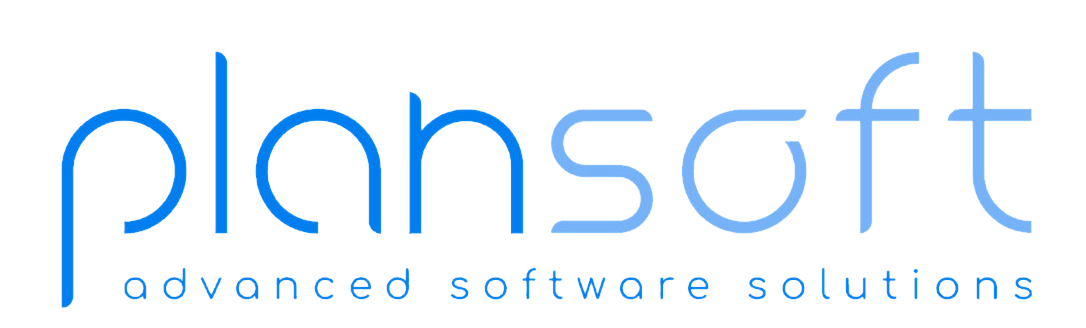
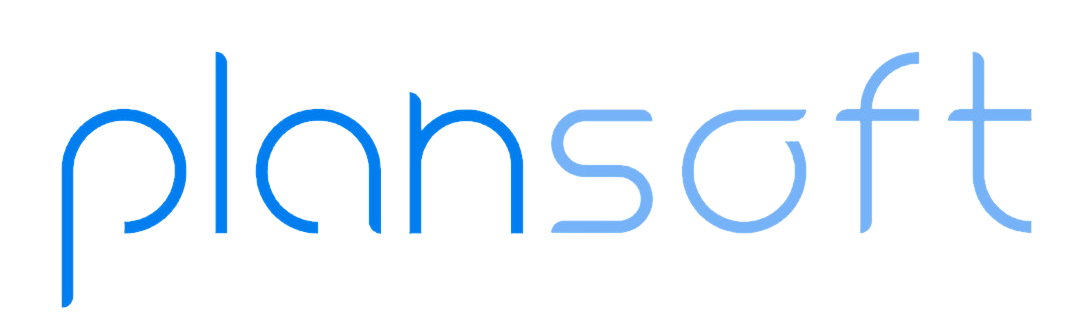
authentication

Changed region(s): [[0.0912, 0.8232, 0.9724, 0.9146]]

diff --git a/src/app/core/services/AuthenticationService.ts b/src/app/core/services/AuthenticationService.ts
@@ -1,35 +1,18 @@
 import { Injectable } from '@angular/core';
 import { HttpClient } from '@angular/common/http';
-import { BehaviorSubject, Observable, of, Subject } from 'rxjs';
 import { catchError, map } from 'rxjs/operators';
 import { environment } from 'src/environments/environment';
+import { UserService } from './utils/user.service';
 import { User } from 'src/app/pages/account/models/User';
+import { JwtResponse } from 'src/app/shared/domain/auth/jwt-response';
+import { Router } from '@angular/router';
 
 @Injectable({ providedIn: 'root' })
 export class AuthenticationService {
 
-    private currentUserSubject?: Subject<User>;
-    public currentUser?: Observable<User>;
     apiUrl = environment.apiUrl;
 
-    constructor(private http: HttpClient) {
-        let user = localStorage.getItem('currentUser');
-        if (user != undefined) {
-            this.currentUserSubject = new BehaviorSubject<User>(JSON.parse(user));
-            this.currentUser = this.currentUserSubject.asObservable();
-        }
-    }
-
-    public getCurrentUserAsObservable(): Observable<User> {
-        if (this.currentUserSubject)
-            return this.currentUserSubject;
-        else {
-            //let user = localStorage.getItem('currentUser');
-            this.currentUserSubject = new Subject<User>();
-            this.currentUser = this.currentUserSubject.asObservable();
-            return this.currentUserSubject;
-        }
-    }
+    constructor(private http: HttpClient, private userService: UserService, private route: Router) { }
 
     login(username: string, password: string) {
         let body = { 
@@ -39,18 +22,20 @@ export class AuthenticationService {
         return this.http.post<any>("public/authenticate", body)
             .pipe(
                 map(
-                    resp => {
-                        console.log("RESP ",resp)
+                    (resp: JwtResponse) => {
                         // login successful if there's a jwt token in the response
                         if (resp && resp.token) {
                             // store user details and jwt token in local storage to keep user logged in between page refreshes
                             localStorage.setItem('currentUser', JSON.stringify(resp));
-                            this.currentUserSubject?.next(resp);
+                            const user = {} as User;
+                            user.username = resp.username;
+                            user.token = resp.token;
+                            this.userService.getUserSubject().next(user);
                         }
                         return resp;
                     },
                     catchError(err => {
-                        console.log("ERR ",err)
+                        console.log("Authentication error ",err)
                         return err;
                 })
             )
@@ -70,6 +55,8 @@ export class AuthenticationService {
 
     logout() {
         // remove user from local storage to log user out
+        console.log("Log out user")
         localStorage.removeItem('currentUser');
+        this.route.navigate(['../login']);
     }
 }

diff --git a/src/app/core/services/utils/user.service.ts b/src/app/core/services/utils/user.service.ts
@@ -1,31 +1,53 @@
 import { Injectable } from '@angular/core';
+import { BehaviorSubject, Observable, Subject } from 'rxjs';
 import { User } from 'src/app/pages/account/models/User';
+import { JwtResponse } from 'src/app/shared/domain/auth/jwt-response';
 
 @Injectable()
 export class UserService {
 
-    constructor() { }
+    private currentUserSubject?: Subject<User>;
+    public currentUser?: Observable<User>;
+
+    constructor() { 
+        let user = localStorage.getItem('currentUser');
+        if (user != undefined) {
+            this.currentUserSubject = new BehaviorSubject<User>(JSON.parse(user));
+            this.currentUser = this.currentUserSubject.asObservable();
+        }
+    }
+
+    public getCurrentUserAsObservable(): Observable<User> {
+        if (this.currentUserSubject)
+            return this.currentUserSubject;
+        else {
+            this.currentUserSubject = new Subject<User>();
+            this.currentUser = this.currentUserSubject.asObservable();
+            return this.currentUserSubject;
+        }
+    }
+
+    public getUserSubject(): Subject<User> {
+        return this.currentUserSubject;
+    }
 
     public saveUserDataInLocalStorage(user: User) {
-        localStorage.setItem('user-first-name', user.firstName);
-        localStorage.setItem('user-last-name', user.lastName);
-        localStorage.setItem('user-id', String(user.userId));
+        localStorage.setItem('currentUser', JSON.stringify(user));
         return true;
     }
 
     public getUser(): User {
-        const user = {} as User;
-        user.firstName = localStorage.getItem('user-first-name');
-        user.lastName = localStorage.getItem('user-last-name');
-        user.userId = Number(localStorage.getItem('user-id'));
+        let user = {} as User;
+        user = JSON.parse(localStorage.getItem('currentUser'));
         return user;
     }
 
     public getFullName(): string {
-        const first: string = localStorage.getItem('user-first-name');
-        const last: string = localStorage.getItem('user-last-name');
-        if (first || last) {
-            return `${first} ${last}`
+        let user = {} as User;
+        user = JSON.parse(localStorage.getItem('currentUser'));
+
+        if (user.firstName || user.lastName) {
+            return `${user.firstName} ${user.lastName}`
         }
         return null;
     }
@@ -34,12 +56,5 @@ export class UserService {
         return localStorage.getItem('user-id');
     }
 
-    public getCompanyName(): string {
-        return localStorage.getItem('company-name');
-    }
-
-    public getBusinessName(): string {
-        return localStorage.getItem('business-name');
-    }
 
 }

diff --git a/src/app/shared/components/logged-user/logged-user.component.ts b/src/app/shared/components/logged-user/logged-user.component.ts
@@ -1,7 +1,7 @@
 import { Component, OnInit, OnDestroy } from '@angular/core';
 import { Subscription } from 'rxjs';
+import { AuthenticationService } from 'src/app/core/services/AuthenticationService';
 import { UserService } from 'src/app/core/services/utils/user.service';
-import { UtilService } from 'src/app/core/services/utils/util.service';
 import { User } from 'src/app/pages/account/models/User';
 
 @Component({
@@ -12,15 +12,20 @@ import { User } from 'src/app/pages/account/models/User';
 export class LoggedUserComponent implements OnInit, OnDestroy {
 
   public dropdownVisible = false;
-
   public user: User;
 
   private userLoggedSubscription: Subscription;
 
-  constructor(private userService: UserService, private utilService: UtilService) { }
+  constructor(private userService: UserService, private authService: AuthenticationService) { }
 
   ngOnInit(): void {
-    this.user = this.userService.getUser();
+    this.userLoggedSubscription = this.userService.getCurrentUserAsObservable().subscribe(
+      (user: User) => {
+          this.user = user;
+      },
+      (err: any) => {
+        console.log("Error access to user ",err)
+      });
   }
 
   public clickOutsideHandler() {
@@ -32,7 +37,7 @@ export class LoggedUserComponent implements OnInit, OnDestroy {
   }
 
   public logout(event: any) {
-    this.utilService.logout();
+    this.authService.logout();
   }
 
   ngOnDestroy(): void {

diff --git a/src/app/shared/components/logged-user/logged-user.component.html b/src/app/shared/components/logged-user/logged-user.component.html
@@ -10,14 +10,13 @@
                     <div class="dropdown-header-inner">{{ 'label.user' | translate }}</div>
                 </div>
                 <div class="user-info-box">
-                    <div class="identification-number app-dropdown-item">
-                        <div ><i class="fa fa-key mr1"></i></div>
-                        <div >{{ user.userId }}</div>
-                    </div>
                     <div class="name app-dropdown-item">
                         <div ><i class="fa fa-user mr1"></i></div>
-                        <div class="first">{{ user.firstName }}</div>
-                        <div class="last">{{ user.lastName }}</div>
+                        <div class="first">&ensp;{{ user.username }}</div>
+                    </div>
+                    <div class="identification-number app-dropdown-item">
+                        <div ><i class="fa fa-key mr1"></i></div>
+                        <div >&ensp;{{ user.token | slice:0:6 }}...</div>
                     </div>
                     <div class="society app-dropdown-item">
                         <div ><i class="fa fa-company mr1"></i></div>

diff --git a/src/app/pages/account/login/login.component.ts b/src/app/pages/account/login/login.component.ts
@@ -3,7 +3,6 @@ import { Router } from '@angular/router';
 import { TranslateService } from '@ngx-translate/core';
 import { AuthenticationService } from 'src/app/core/services/AuthenticationService';
 import { DialogService } from 'src/app/core/services/DialogService';
-import { LanguageService } from 'src/app/core/services/general-config/language.service';
 import { SpinnerService } from 'src/app/core/services/SpinnerService';
 import { JwtResponse } from 'src/app/shared/domain/auth/jwt-response';
 
@@ -35,7 +34,7 @@ export class LoginComponent implements OnInit {
           this.dialogService.showTimedAlert(this.translateService.instant('message.success.loginSucceeded'), 500);
         }, 0);
         console.log("Login succeeded "+JSON.stringify(resp));
-        this.router.navigate(['./home']);
+        this.router.navigate(['./skills/home']);
       },
       (err: JwtResponse) => {
         this.spinnerService.stop();

diff --git a/src/app/app.routing.module..ts b/src/app/app.routing.module..ts
@@ -3,14 +3,24 @@ import { NgModule } from '@angular/core';
 import { BaseComponent } from './pages/base/base.component';
 import { WelcomeComponent } from './pages/account/welcome/welcome.component';
 import { HomeComponent } from './pages/home/home.component';
+import { LoginComponent } from './pages/account/login/login.component';
 
 const routes: Routes = [
     {
         path: '',
         component: WelcomeComponent,
+        children: [
+            {
+                path: '',
+                children: [
+                    { path: '', redirectTo: 'login', pathMatch: 'full' },
+                    { path: 'login', component: LoginComponent }
+                ]
+            }
+        ]
     },
     {
-        path: '',
+        path: 'skills',
         component: BaseComponent,
         children: [
             {

diff --git a/src/app/core/services/utils/left-menu.service.ts b/src/app/core/services/utils/left-menu.service.ts
@@ -1,7 +1,6 @@
 import { Injectable } from '@angular/core';
 import { Subject, Observable } from 'rxjs';
 import { HttpClient } from '@angular/common/http';
-import { EnvironmentService } from '../general-config/environment.service';
 import { LeftMenuLink } from 'src/app/shared/domain/components/left-menu-link';
 import { Lang } from 'src/app/shared/domain/enums/lang';
 
@@ -14,7 +13,7 @@ export class LeftMenuService {
 
     private _navigableMenuItemClickSubject$: Subject<LeftMenuLink> = new Subject<LeftMenuLink>();
 
-    constructor(private environmentService: EnvironmentService, private httpClient: HttpClient) { }
+    constructor(private httpClient: HttpClient) { }
     
     get menuItemClickSubjectAsObservable(): Observable<LeftMenuLink> {
         return this._menuItemClickSubject$.asObservable();

diff --git a/src/app/pages/account/login/login.component.html b/src/app/pages/account/login/login.component.html
@@ -2,12 +2,12 @@
     <div class="row">
         <div class="col-12">
             <mat-form-field class="login-field">
-                <input matInput placeholder="Username" [(ngModel)]="username" name="username">
+                <input matInput placeholder="Username" [(ngModel)]="username" name="username" (keyup.enter)="login()">
             </mat-form-field>
         </div>
         <div class="col-12">
             <mat-form-field class="login-field">
-                <input type="password" matInput placeholder="Password" [(ngModel)]="password" name="password">
+                <input type="password" matInput placeholder="Password" [(ngModel)]="password" name="password" (keyup.enter)="login()">
             </mat-form-field>
         </div>
     </div>

diff --git a/src/app/core/services/general-config/language.service.ts b/src/app/core/services/general-config/language.service.ts
@@ -1,5 +1,5 @@
 import { Injectable } from '@angular/core';
-import { Observable } from 'rxjs';
+import { BehaviorSubject, Observable } from 'rxjs';
 import { Lang } from 'src/app/shared/domain/enums/lang';
 import { TranslateService } from '@ngx-translate/core';
 import { DateAdapter } from '@angular/material/core';
@@ -10,7 +10,7 @@ import { Subject } from 'rxjs';
 })
 export class LanguageService {
 
-    private languageChangeSubject$: Subject<any> = new Subject<any>();
+    private languageChangeSubject$: BehaviorSubject<any> = new BehaviorSubject<any>(Lang.EN);
 
     constructor(private translate: TranslateService, private dateAdapter: DateAdapter<any>) { }
 

diff --git a/src/app/shared/components/sidebar/sidebar.component.scss b/src/app/shared/components/sidebar/sidebar.component.scss
@@ -7,9 +7,8 @@
         padding: 16px 0 14px;
         border-bottom: 1px solid #dedede;
         color: #81878c;
-        height: 80px;
-
-        background-image: url('../../../../assets/imgs/wall.jpeg');
+        height: 70px;
+        background-image: url('../../../../assets/imgs/home-bg.jpg');
         background-size: cover;
         justify-content: center;
         display: block;
@@ -22,7 +21,7 @@
             border: 1px solid;
             border-radius: 16px;
             color: white;
-            font-size: 22px;
+            font-size: 18px;
             background-color: #00010282;
             cursor: pointer;
         }

diff --git a/src/app/shared/components/sidebar/sidebar.component.html b/src/app/shared/components/sidebar/sidebar.component.html
@@ -10,7 +10,7 @@
                 <!-- user name -->
                 <ng-container>
                     <div class="account-logged-box">
-                        <div class="admin-label" [routerLink]="['/']">Ectx Admin</div>
+                        <div class="admin-label">{{'label.title' | translate}}</div>
                     </div>
                 </ng-container>
                 <ng-container *ngFor="let item of menuItems">

diff --git a/src/app/pages/account/welcome/welcome.component.scss b/src/app/pages/account/welcome/welcome.component.scss
@@ -9,7 +9,7 @@
             height: calc(320px - 30px);
 
             .header {
-                background-image: url('/../../../assets/imgs/plansoft-copia.png');
+                background-image: url('/../../../assets/imgs/plansoft.png');
                 background-size: inherit;
                 background-position: center;
                 background-repeat: no-repeat;
